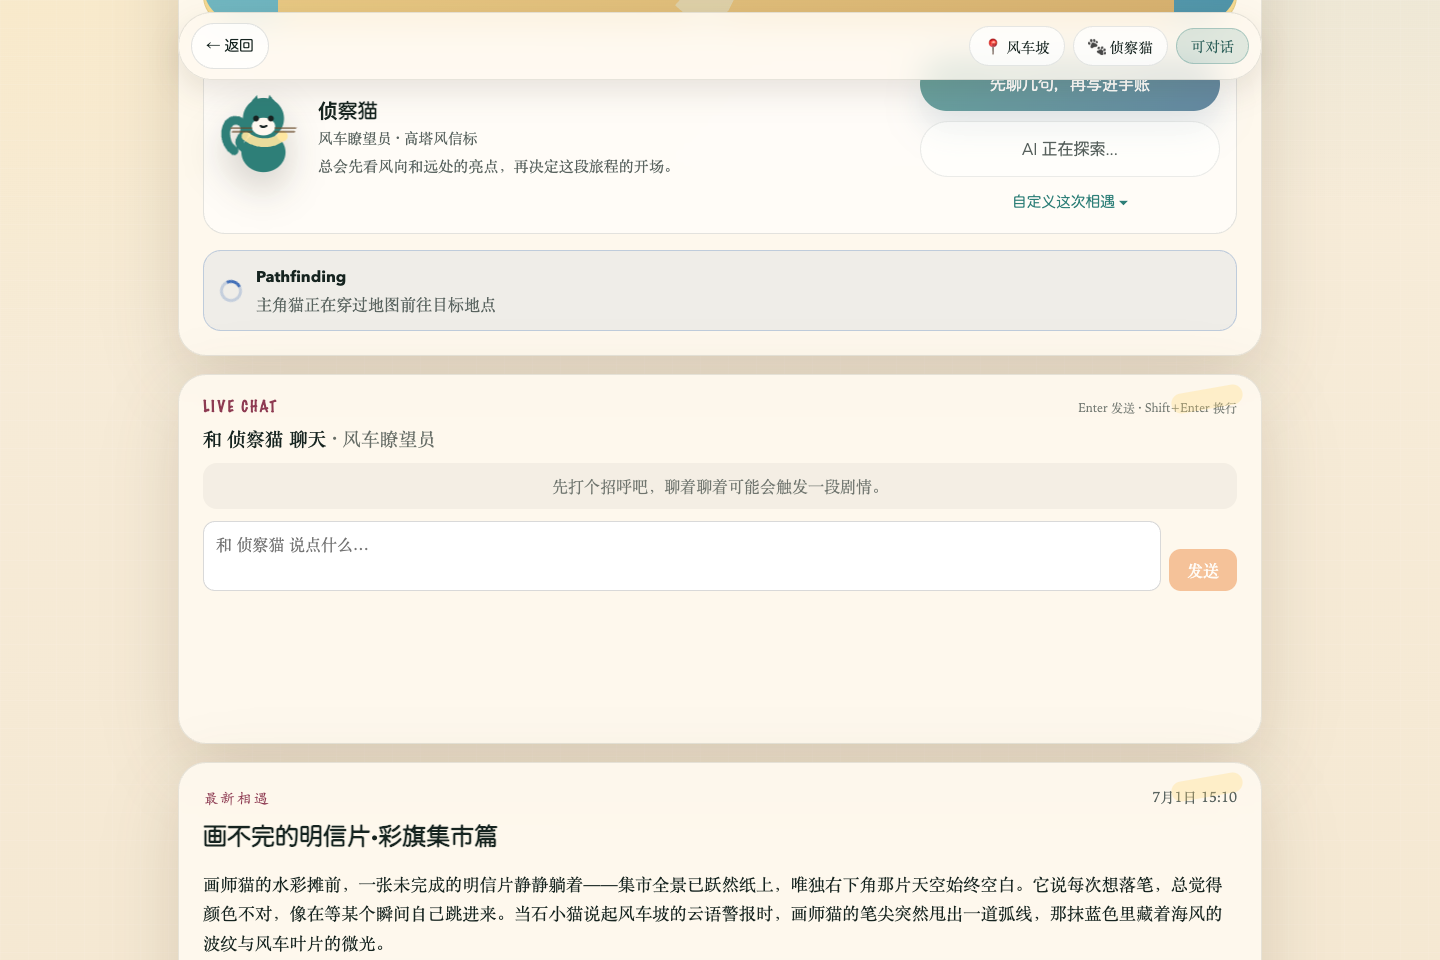
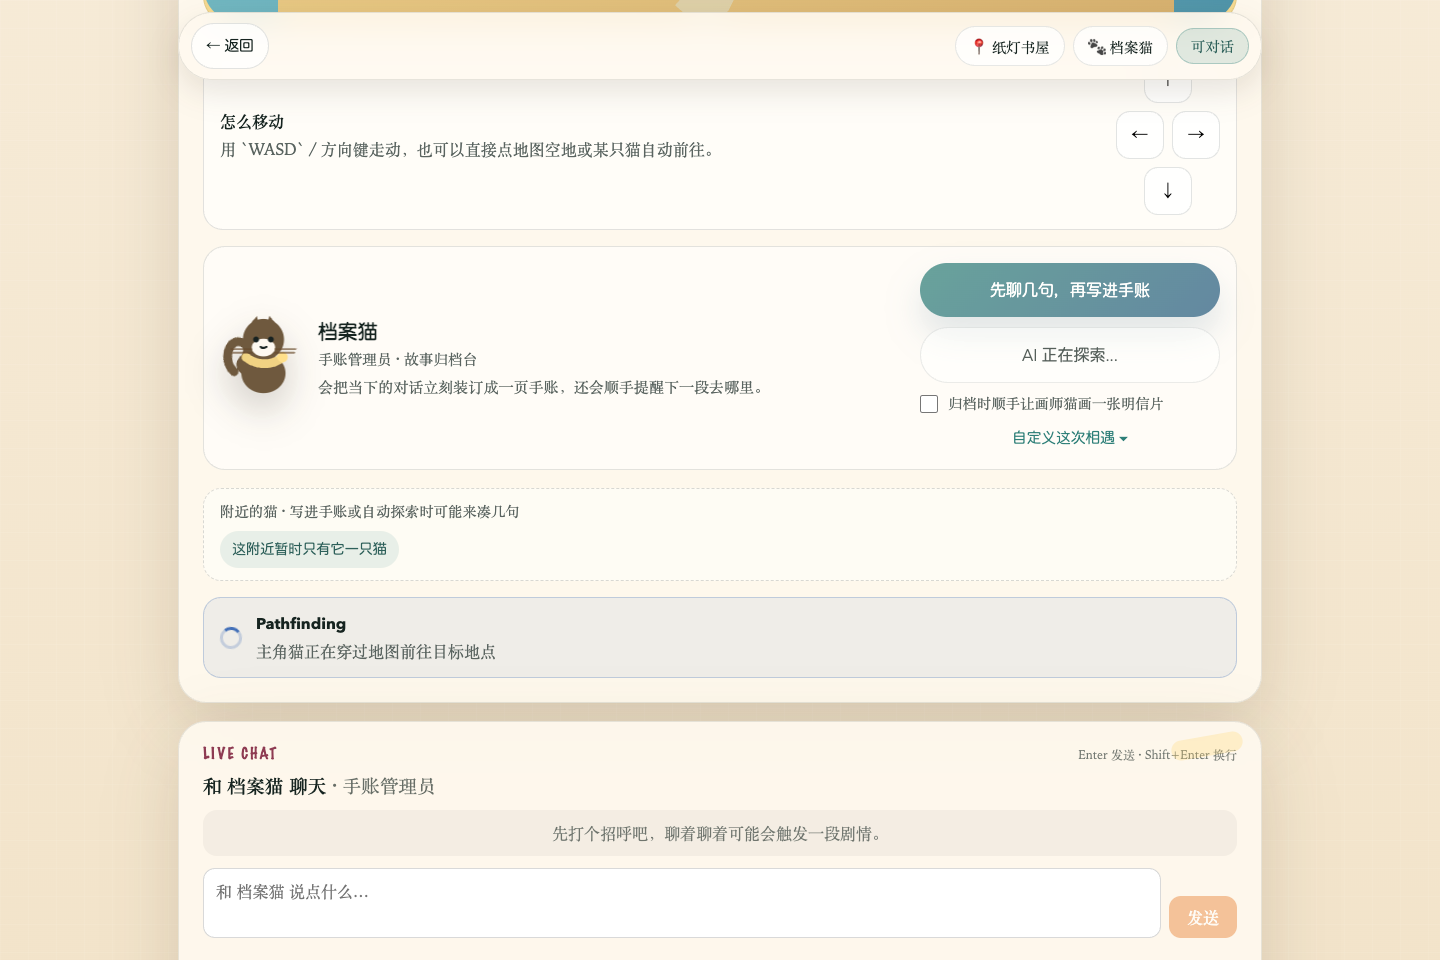
Fix

diff --git a/components/travel-neko-app.tsx b/components/travel-neko-app.tsx
@@ -1290,6 +1290,29 @@ export function TravelNekoApp({
 
             </div>
 
+            <div className="control-pad-wrap">
+              <div className="control-copy">
+                <strong>怎么移动</strong>
+                <p>用 `WASD` / 方向键走动，也可以直接点地图空地或某只猫自动前往。</p>
+              </div>
+              <div className="control-pad">
+                <button className="control-key" onClick={() => movePlayerBy(0, -4)} type="button">
+                  ↑
+                </button>
+                <div className="control-row">
+                  <button className="control-key" onClick={() => movePlayerBy(-4, 0)} type="button">
+                    ←
+                  </button>
+                  <button className="control-key" onClick={() => movePlayerBy(4, 0)} type="button">
+                    →
+                  </button>
+                </div>
+                <button className="control-key" onClick={() => movePlayerBy(0, 4)} type="button">
+                  ↓
+                </button>
+              </div>
+            </div>
+
             <div className="action-dock">
               <div className="dock-target">
                 <CatSprite accent={activeNpc.accent} body={activeNpc.body} highlight />
@@ -1328,6 +1351,14 @@ export function TravelNekoApp({
                 >
                   {isSubmitting && isAutoExploring ? "AI 正在探索..." : "让 AI 自动探索"}
                 </button>
+                <label className="checkbox-row dock-checkbox">
+                  <input
+                    checked={form.generatePostcard}
+                    onChange={(event) => updateField("generatePostcard", event.target.checked)}
+                    type="checkbox"
+                  />
+                  归档时顺手让画师猫画一张明信片
+                </label>
                 <button
                   aria-expanded={showCustomize}
                   className="text-button"
@@ -1336,6 +1367,21 @@ export function TravelNekoApp({
                 >
                   自定义这次相遇 {showCustomize ? "▲" : "▾"}
                 </button>
+              </div>
+            </div>
+
+            <div className="nearby-strip dock-nearby">
+              <span>附近的猫 · 写进手账或自动探索时可能来凑几句</span>
+              <div className="chip-row">
+                {nearbyCats.length ? (
+                  nearbyCats.map((cat) => (
+                    <span className="route-chip" key={cat.id}>
+                      {cat.alias}
+                    </span>
+                  ))
+                ) : (
+                  <span className="route-chip">这附近暂时只有它一只猫</span>
+                )}
               </div>
             </div>
 
@@ -1395,60 +1441,6 @@ export function TravelNekoApp({
                   ) : null}
                 </label>
 
-                <label className="checkbox-row">
-                  <input
-                    checked={form.generatePostcard}
-                    onChange={(event) => updateField("generatePostcard", event.target.checked)}
-                    type="checkbox"
-                  />
-                  顺手让画师猫起一张明信片草图
-                </label>
-
-                <div className="control-pad-wrap">
-                  <div className="control-copy">
-                    <strong>手动移动</strong>
-                    <p>支持 `WASD` / 方向键，也可以直接点地图空地。</p>
-                  </div>
-                  <div className="control-pad">
-                    <button className="control-key" onClick={() => movePlayerBy(0, -4)} type="button">
-                      ↑
-                    </button>
-                    <div className="control-row">
-                      <button
-                        className="control-key"
-                        onClick={() => movePlayerBy(-4, 0)}
-                        type="button"
-                      >
-                        ←
-                      </button>
-                      <button
-                        className="control-key"
-                        onClick={() => movePlayerBy(4, 0)}
-                        type="button"
-                      >
-                        →
-                      </button>
-                    </div>
-                    <button className="control-key" onClick={() => movePlayerBy(0, 4)} type="button">
-                      ↓
-                    </button>
-                  </div>
-                </div>
-
-                <div className="nearby-strip">
-                  <span>附近可能插话的猫</span>
-                  <div className="chip-row">
-                    {nearbyCats.length ? (
-                      nearbyCats.map((cat) => (
-                        <span className="route-chip" key={cat.id}>
-                          {cat.alias}
-                        </span>
-                      ))
-                    ) : (
-                      <span className="route-chip">这附近暂时只有它一只猫</span>
-                    )}
-                  </div>
-                </div>
               </div>
             ) : null}
 

diff --git a/app/globals.css b/app/globals.css
@@ -493,10 +493,6 @@ img {
   background: rgba(255, 255, 255, 0.5);
 }
 
-.customize-panel .nearby-strip {
-  margin-top: 4px;
-}
-
 /* Inline run progress (replaces persistent phase list + status feed) */
 .run-progress {
   display: flex;
@@ -1022,7 +1018,7 @@ img {
   gap: 16px;
   align-items: center;
   padding: 14px 16px;
-  margin-bottom: 16px;
+  margin: 16px 0 0;
   border-radius: 20px;
   background: rgba(255, 255, 255, 0.62);
   border: 1px solid var(--line);
@@ -1065,6 +1061,32 @@ img {
   width: 18px;
   height: 18px;
   margin: 0;
+}
+
+/* Postcard option lives next to the archive/explore actions */
+.dock-checkbox {
+  margin-bottom: 0;
+  align-items: flex-start;
+  color: var(--muted);
+  font-size: 0.9rem;
+  line-height: 1.4;
+}
+
+.dock-checkbox input {
+  margin-top: 2px;
+}
+
+/* Nearby-cats hint sits under the action dock as an archiving cue */
+.dock-nearby {
+  margin-top: 12px;
+  padding: 12px 16px;
+  border-radius: 18px;
+  border: 1px dashed rgba(22, 36, 32, 0.16);
+  background: rgba(255, 255, 255, 0.42);
+}
+
+.dock-nearby > span {
+  font-size: 0.86rem;
 }
 
 .error-text {
